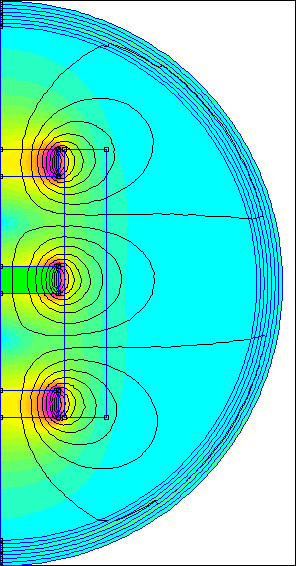
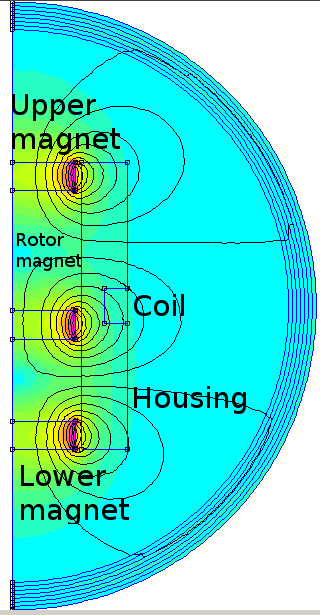
Add text on flux linkage

diff --git a/design.tex b/design.tex
@@ -201,14 +201,14 @@ The analytical effect of these parameters is summarized in table \ref{parameters
 \begin{center}
 \fbox{
 \begin{tabular}{l l l}
-\textbf{Parameter}	 & \textbf{Increasing} 		& \textbf{Decreasing}	\\ \hline
-N_{turns}                & Higher voltage		& Smaller size, less wiring resistance 		\\ \hline
-N_{pole}		 & Increased frequency		& Decreased frequency	\\ \hline
-l_{pole}                 & More space for wiring 	& Higher voltage, smaller size	\\ \hline
-A_{loop}		 & More power			& Smaller length of wiring 	\\ \hline
-B                        & Increased power 	        & Smaller magnets 		\\ \hline
-r_{wire}		 & Decreased wiring resistance 	& More turns in same space 	\\ \hline
-$\delta_{r}$             & Stronger side walls		& Incresed efficiency 
+\textbf{Parameter}	      & \textbf{Increasing} 		& \textbf{Decreasing}	\\ \hline
+N_{turns}                     & Higher voltage		& Smaller size, less wiring resistance 		\\ \hline
+N_{pole}		      & Increased frequency		& Decreased frequency	\\ \hline
+l_{pole}                      & More space for wiring 	& Higher voltage, smaller size	\\ \hline
+A_{loop}		      & More power			& Smaller length of wiring 	\\ \hline
+B                             & Increased power 	        & Smaller magnets 		\\ \hline
+r_{wire}		      & Decreased wiring resistance 	& More turns in same space 	\\ \hline
+\(\displaystyle \delta_{r} \) & Stronger side walls		& Incresed efficiency 
 \end{tabular}
 }
 \end{center}
@@ -236,7 +236,16 @@ Weighted stress tensor integration over rotor magnet volume as implemented by FE
 
 It can be seen that net force on rotor magnet is dominated by the magnetic forces. while centrifugal force on magnet is negligible in comparison. 
 
-Second use for this FEA analysis is to create look-up table for flux linkage into coils of generator. 
+Second use for this FEA analysis is to create look-up table for flux linkage into coils of generator. The methodology was similar to determining forces affecting the rotor magnet: a LUA script was ran to sweep possible magnet positions, and look-up table of flux linkage into coils was created. For the purposes of analysis, difference of flux linkage was calculated between each point. The change of flux linkage is a very important parameter, as the power generated is proportional to $\frac{d \Phi_{B}}{d t}$. 
+
+\begin{figure}[htb]
+\begin{center}
+\includegraphics[height=6cm]{images/own_dwg/femm_flux_dualmagnet.jpg}
+\end{center}
+\caption{\label{fig:femm_linkage} Flux linkage and rate of change in 0.1 mm steps in generator.}
+\end{figure}
+
+Based on these results, a magnet moving at the speed of $0.1 mm / s $ would induce voltage of up to $1.5 mV$ in each winding of the coil. If we assume coil to have 100 turns, travel length of the magnet to be 1 mm, and frequency of magnet moving inside generator to be 10 Hz the peak voltage out of generator would be sufficient to power the circuitry and charge battery of sensor.
 
 \subsection{Piezoelectric harvester design}
 A previous work by 
@@ -245,8 +254,22 @@ A previous work by
 
 \subsection{Electronic design}
 \subsubsection{Simulation of circuit}
-The analog sections of circuit were simulated using LTSpice IV \cite{ltspice}. Accelerometer and bluetooth module were modeled as parallel current sinks which took energy from the circuit in pulses. Energy harvesting was simulated as a high.impedance AC voltage source. 
-Battery was modelled as a voltage source with high-value capacitor and low-value resistor in series.
+The analog sections of circuit were simulated using LTSpice IV \cite{ltspice}. Microcontroller, radiolink and accelerometer were simulated as resistive load. Battery was modelled as a voltage source with high-value capacitor and low-value resistor in series. Piezoelectric harvesting was modelled both as high-voltage source with capacitor in series and current source with capacitor in parallel. Electromagnetic harvesting was modelled as low-impedance low-voltage source. 
+
+{\color{red} once lookup-tables can be generated, create maximum power point tracking.} LTC3331 presents an interesting opportunity for maximum power point tracking (MPPT). While the impedances of individual components cannot be tuned in real-time, the microcontroller can determine rotation frequency of tyre from accelerometer readings and determine the maximum power point. LTC3331 can adjust the target voltage for energy storage buffer capacitor, which enables MPPT-control of system.
+
+The simulation model is shown in figure \ref{fig:ltspice_sim}. Connections were adjusted as needed to generate simulation data for different purposes, such measuring energy efficiency, transient response, MPPT etc.
+
+\begin{figure}[htb]
+\begin{center}
+\includegraphics[height=12cm]{images/own_dwg/ltspice_ltc3331.jpg}
+\end{center}
+\caption{\label{fig:ltspice_sim} LTSpice \cite{ltspice} simulation of electrical circuit}
+\end{figure}
+
+--simulated efficiency
+--simulated mppt
+--figures
 
 \subsubsection{Schematic design}
 The printed circuit board (PCB) schematic is a logical representation of the components and how they connect to each other. The schematic is designed in accordance to datasheets, reference designs and application notes of main circuit components. As the design operates in high-vibration environment with wide temperature variations, special care is used to select components which have well-defined temperature and mechanical characteristics. 
